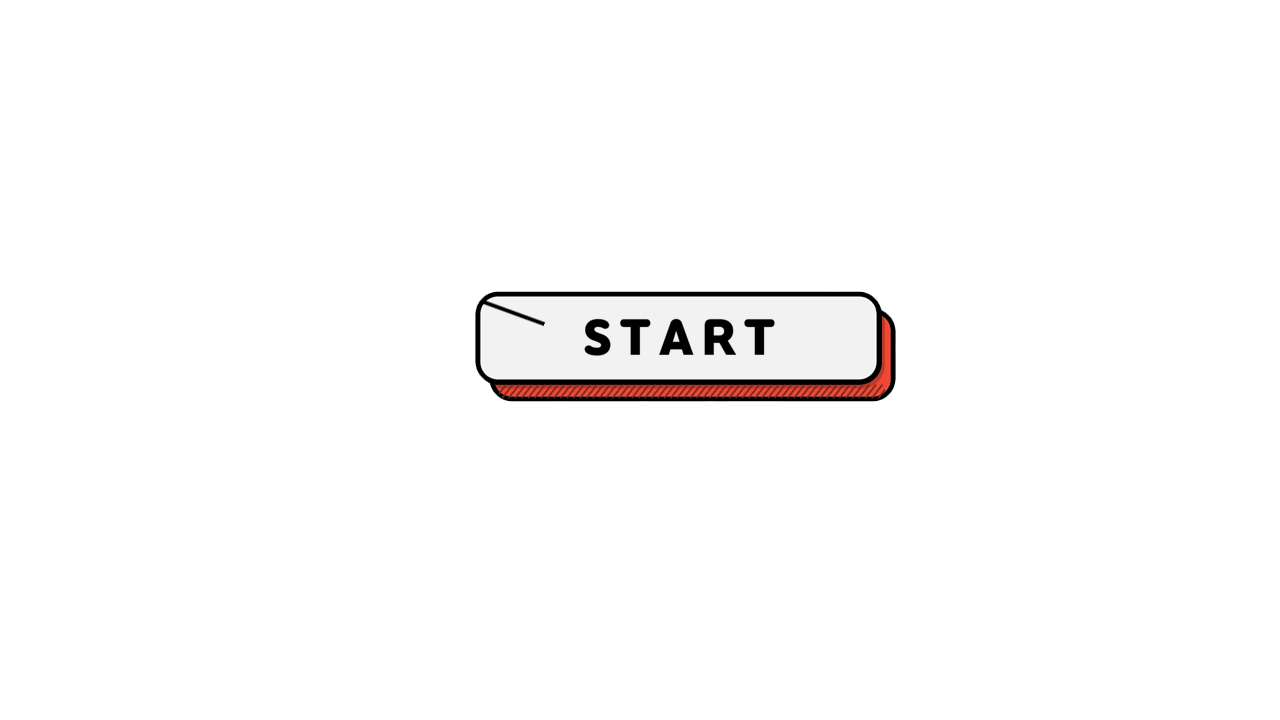
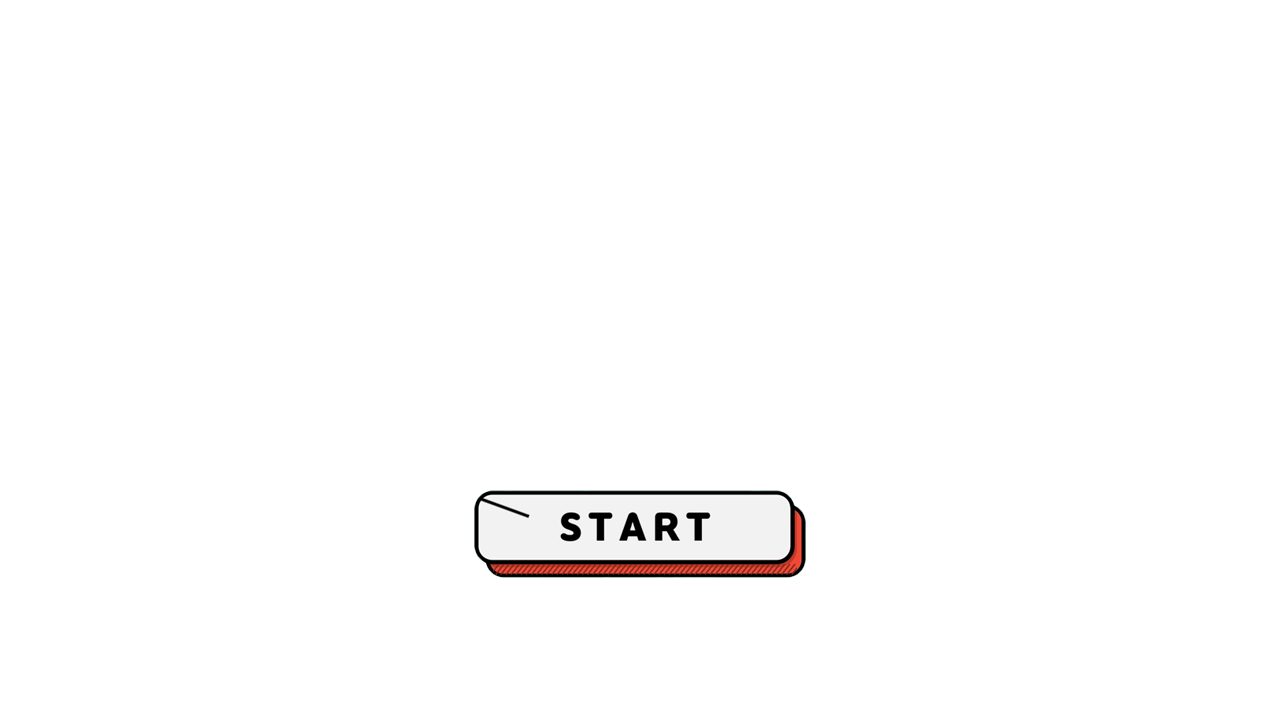
main 화면

Changed region(s): [[0.3438, 0.3972, 0.7188, 0.5806], [0.3438, 0.6722, 0.6562, 0.825]]

diff --git a/game01.py b/game01.py
@@ -30,7 +30,7 @@ class Coin(py.sprite.Sprite):
 
 
 class Obstacle(py.sprite.Sprite):
-    def __init__(self, x, y, speed, degrees=0, r=0, k=0, maxx=1280, minx=0, maxy = 720, miny = 0):
+    def __init__(self, x, y, speed, degrees=0, r=0, k=0, maxx=1280, minx=0, maxy=720, miny=0):
         py.sprite.Sprite.__init__(self)
         self.image = py.image.load(url + "/image/circle_red.png").convert_alpha()
         self.image = py.transform.scale(self.image, (20, 20))
@@ -89,15 +89,15 @@ class Round(py.sprite.Sprite):
         self.obsC = []
         self.coinl = []
         for i in range(0, 5, 1):
-            self.obs.append(Obstacle(170+i*40, 380, 8*(-1)**i, 100, 0, 0, 1280, 0, 450, 310))
+            self.obs.append(Obstacle(170 + i * 40, 380, 8 * (-1) ** i, 100, 0, 0, 1280, 0, 450, 310))
 
         for i in range(0, 4, 1):
             for j in range(0, 4, 1):
-                self.obsC.append(Obstacle(480, 170+i*140, 3, 0, 50, j*90))
+                self.obsC.append(Obstacle(480, 170 + i * 140, 3, 0, 50, j * 90))
 
         for i in range(0, 4, 1):
             for j in range(0, 2, 1):
-                self.obsC.append(Obstacle(750, 375, 3, 0, 40+j*50, i*90))
+                self.obsC.append(Obstacle(750, 375, 3, 0, 40 + j * 50, i * 90))
 
         self.obs.append(Obstacle(900, 120, 5, 1, 0, 0, 1280, 0, 330, 120))
         self.obs.append(Obstacle(1030, 330, -5, 1, 0, 0, 1280, 0, 330, 120))
@@ -107,13 +107,13 @@ class Round(py.sprite.Sprite):
         self.obs.append(Obstacle(900, 600, -5, -1, 0, 0, 1280, 0, 600, 400))
 
         for i in range(0, 5, 1):
-            self.coinl.append(Coin(170+i*40, 310))
+            self.coinl.append(Coin(170 + i * 40, 310))
         for i in range(0, 5, 1):
-            self.coinl.append(Coin(170+i*40, 450))
+            self.coinl.append(Coin(170 + i * 40, 450))
         for i in range(0, 4, 1):
-            self.coinl.append(Coin(480, 170+i*140))
+            self.coinl.append(Coin(480, 170 + i * 140))
         for i in range(0, 2, 1):
-            self.coinl.append(Coin(750, 295+i*170))
+            self.coinl.append(Coin(750, 295 + i * 170))
 
         self.coinl.append(Coin(820, 100))
         self.coinl.append(Coin(820, 600))
@@ -136,21 +136,21 @@ class Round(py.sprite.Sprite):
 
         for i in range(0, 4, 1):
             for j in range(0, 4, 1):
-                self.obsC.append(Obstacle(825, 355, 3, 0, 40+j*50, i*90))
+                self.obsC.append(Obstacle(825, 355, 3, 0, 40 + j * 50, i * 90))
 
         for i in range(0, 2):
-            self.obs.append(Obstacle(190, 120+i*80, 8, 0, 0, 0, 510, 190))
+            self.obs.append(Obstacle(190, 120 + i * 80, 8, 0, 0, 0, 510, 190))
         for i in range(0, 2):
-            self.obs.append(Obstacle(510, 160+i*80, 8, 0, 0, 0, 510, 190))
+            self.obs.append(Obstacle(510, 160 + i * 80, 8, 0, 0, 0, 510, 190))
         for i in range(0, 2):
-            self.obs.append(Obstacle(190, 445+i*80, 8, 0, 0, 0, 510, 190))
+            self.obs.append(Obstacle(190, 445 + i * 80, 8, 0, 0, 0, 510, 190))
         for i in range(0, 2):
-            self.obs.append(Obstacle(510, 485+i*80, 8, 0, 0, 0, 510, 190))
+            self.obs.append(Obstacle(510, 485 + i * 80, 8, 0, 0, 0, 510, 190))
 
         for i in range(0, 2):
-            self.obs.append(Obstacle(110+i*70, 220, 7, 100, 0, 0, 1280, 0, 500, 220))
+            self.obs.append(Obstacle(110 + i * 70, 220, 7, 100, 0, 0, 1280, 0, 500, 220))
         for i in range(0, 2):
-            self.obs.append(Obstacle(145+i*70, 500, 7, 100, 0, 0, 1280, 0, 500, 220))
+            self.obs.append(Obstacle(145 + i * 70, 500, 7, 100, 0, 0, 1280, 0, 500, 220))
 
         self.coinl.append(Coin(1000, 360))
         self.coinl.append(Coin(850, 140))
@@ -214,7 +214,6 @@ class Round(py.sprite.Sprite):
                 self.coinl.remove(i)
                 self.get_coin += 1
 
-
         screen.fill(white)
         screen.blit(self.image, (0, 0))
         screen.blit(self.color, (0, 0))
@@ -254,6 +253,10 @@ class Start(py.sprite.Sprite):
         py.sprite.Sprite.__init__(self)
         self.image = py.image.load(url + "/image/start.png").convert_alpha()
         self.rect = self.image.get_rect()
+        self.rect.centerx = round(SCREEN_WIDTH / 2)
+        self.rect.centery = round(SCREEN_HEIGHT / 2)
+        screen.blit(self.image, (0, 0))
+
 
 def display_death():
     death = font.render(f"Death : {character.death:,}", True, True)
@@ -278,22 +281,38 @@ bgm = py.mixer.Sound(url + "/music/bgm.mp3")
 clear = py.mixer.Sound(url + "/music/next.mp3")
 die = py.mixer.Sound(url + "/music/die.mp3")
 main_image = py.image.load(url + "/image/main.png").convert_alpha()
-bgm.play(-1)
+screen.blit(main_image, (0, 0))
 
 character = Character()
 clock = py.time.Clock()
 stage = Round()
+start = Start()
 
-while True:
+main = True
+
+while main:
     clock.tick(60)
-    screen.blit(main_image, (0, 0))
-    screen.blit(start_image, (0, 0))
     for event in py.event.get():
+        if event.type == py.QUIT:
+            sys.exit()
+
+        if event.type == py.MOUSEBUTTONDOWN:
+            pos = py.mouse.get_pos()
+            if 474 <= pos[0] <= 474 + 332 and 490 <= pos[1] <= 490 + 88:
+                start.image = py.transform.scale(start.image, (1216, 684))
+                screen.blit(main_image, (0, 0))
+                screen.blit(start.image, (32, 32))
+
         if event.type == py.MOUSEBUTTONUP:
+            if 474 <= event.pos[0] <= 474 + 332 and 490 <= event.pos[1] <= 490 + 88:
+                start.image = py.transform.scale(start.image, (1280, 720))
+                screen.blit(main_image, (0, 0))
+                screen.blit(start.image, (0, 0))
+                main = False
 
+    py.display.update()
 
-
-
+bgm.play(-1)
 
 while True:
     clock.tick(60)
